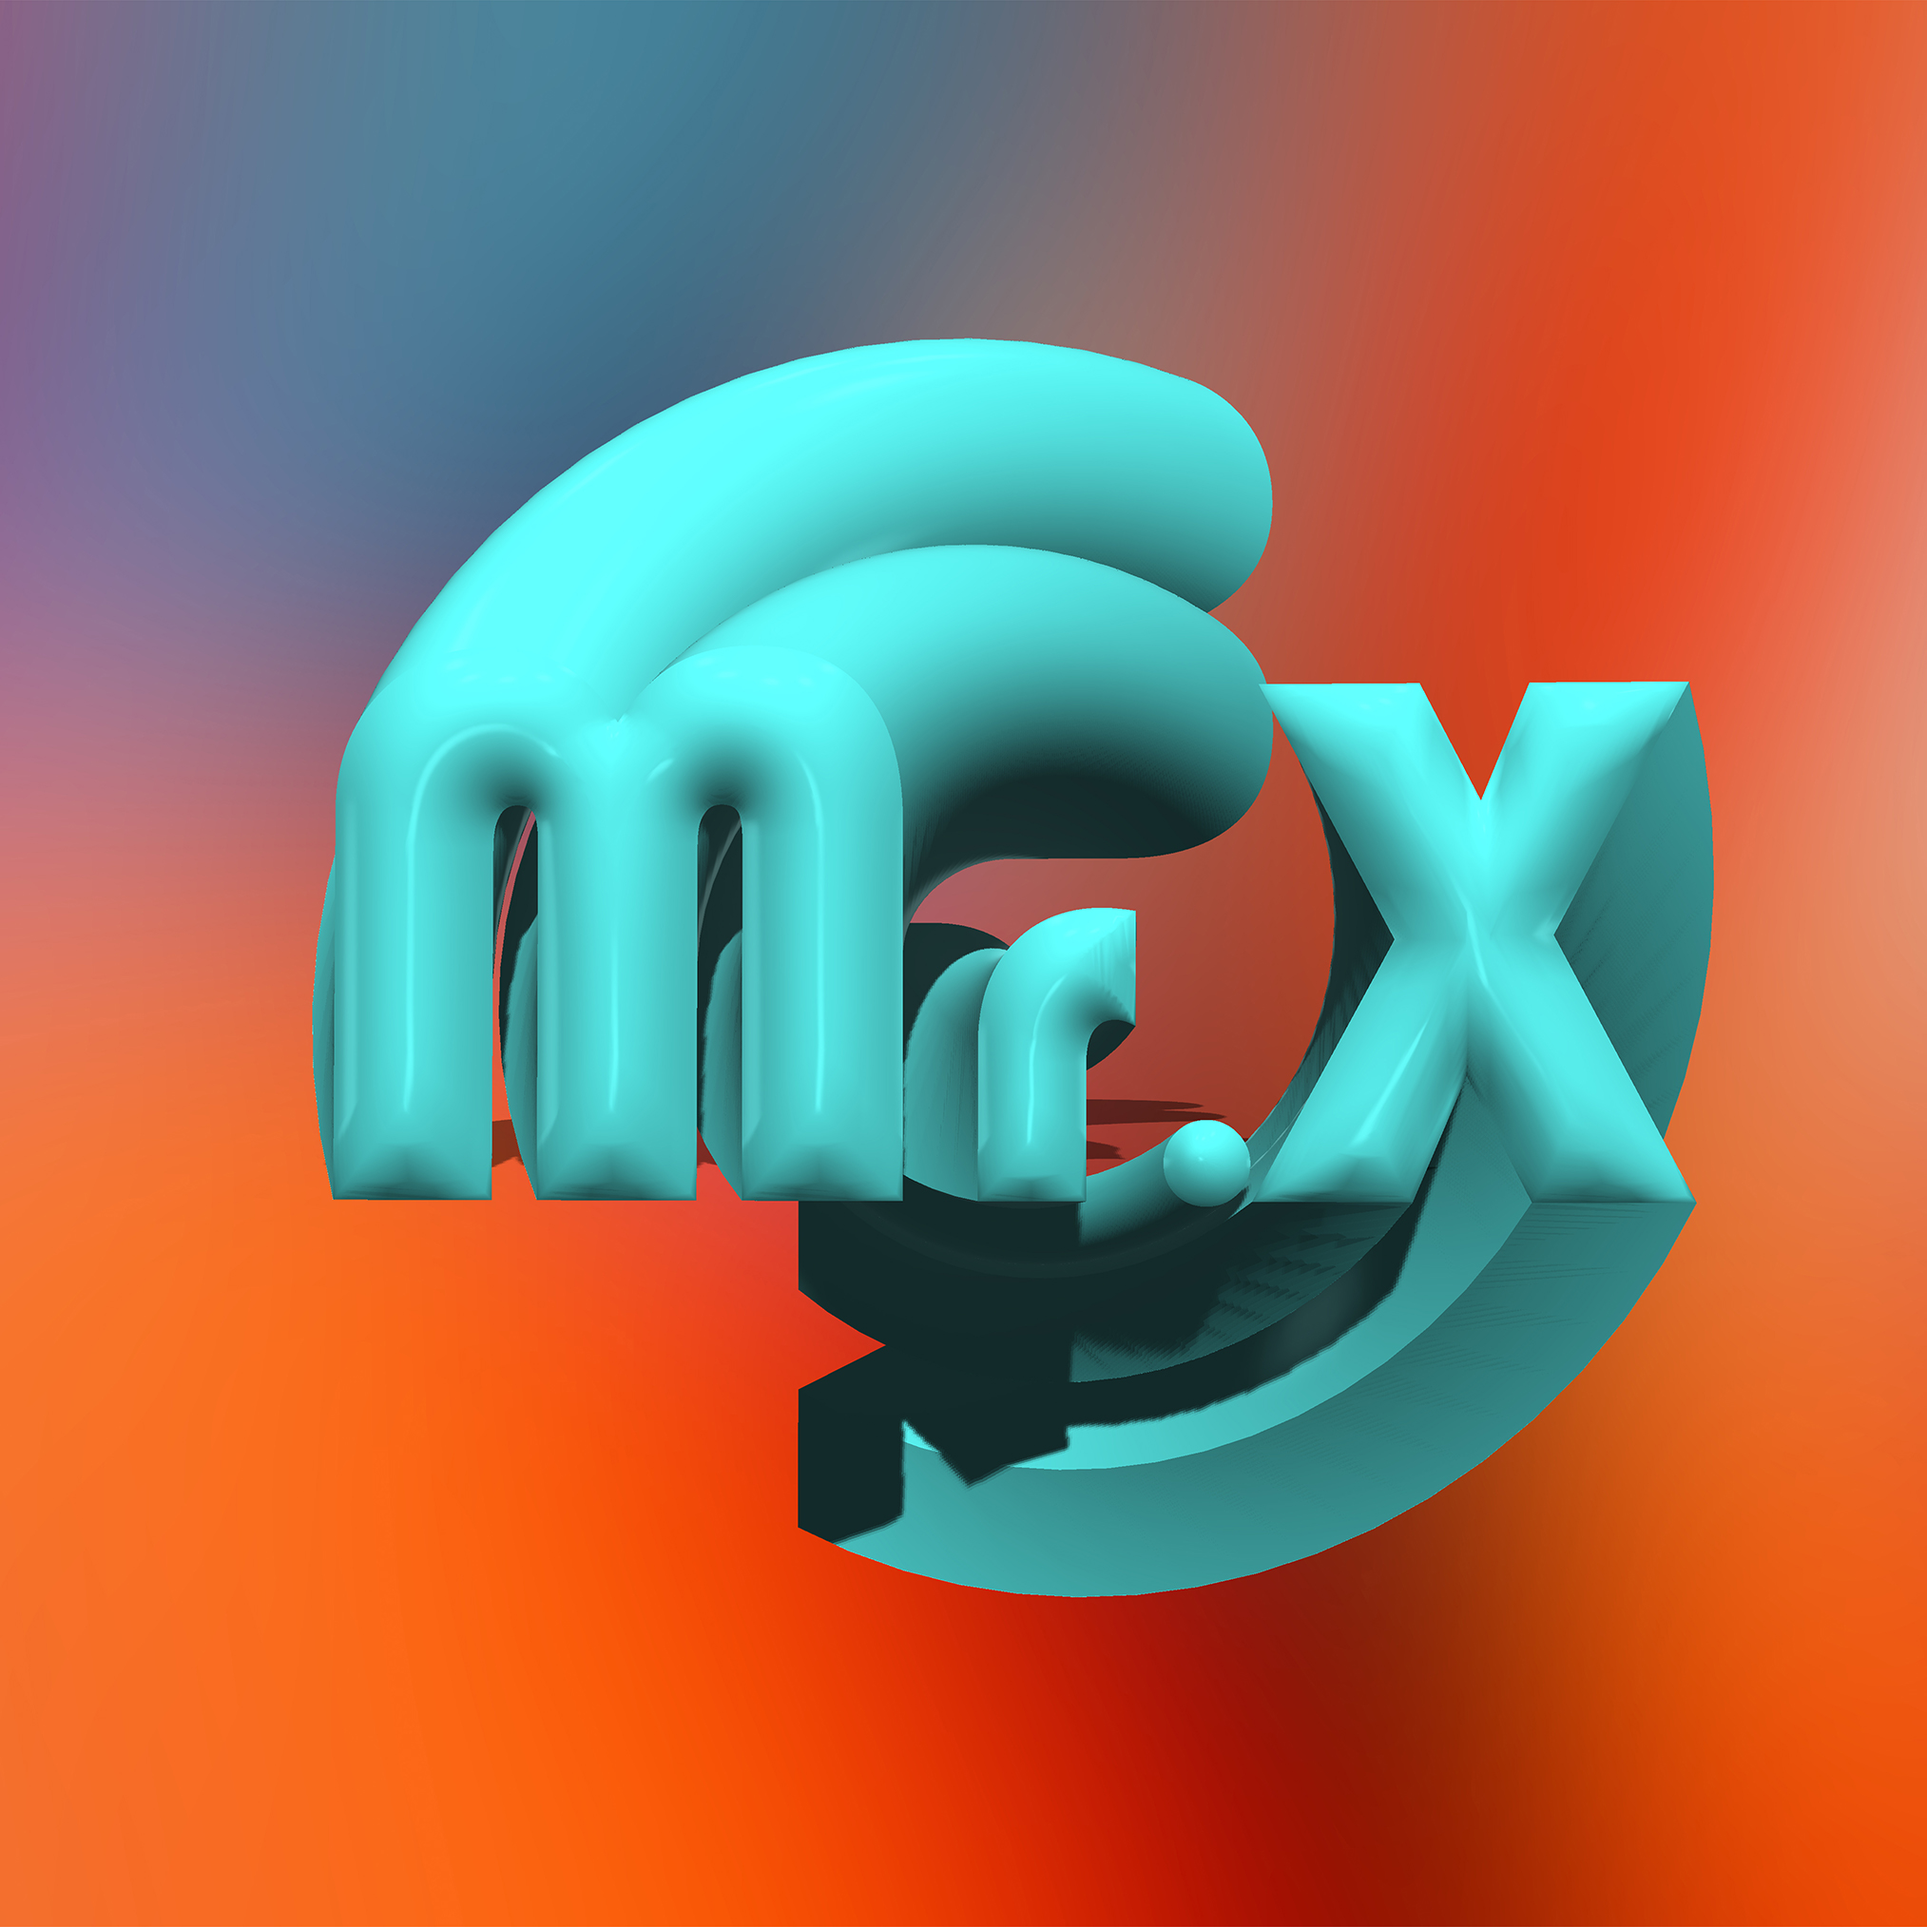
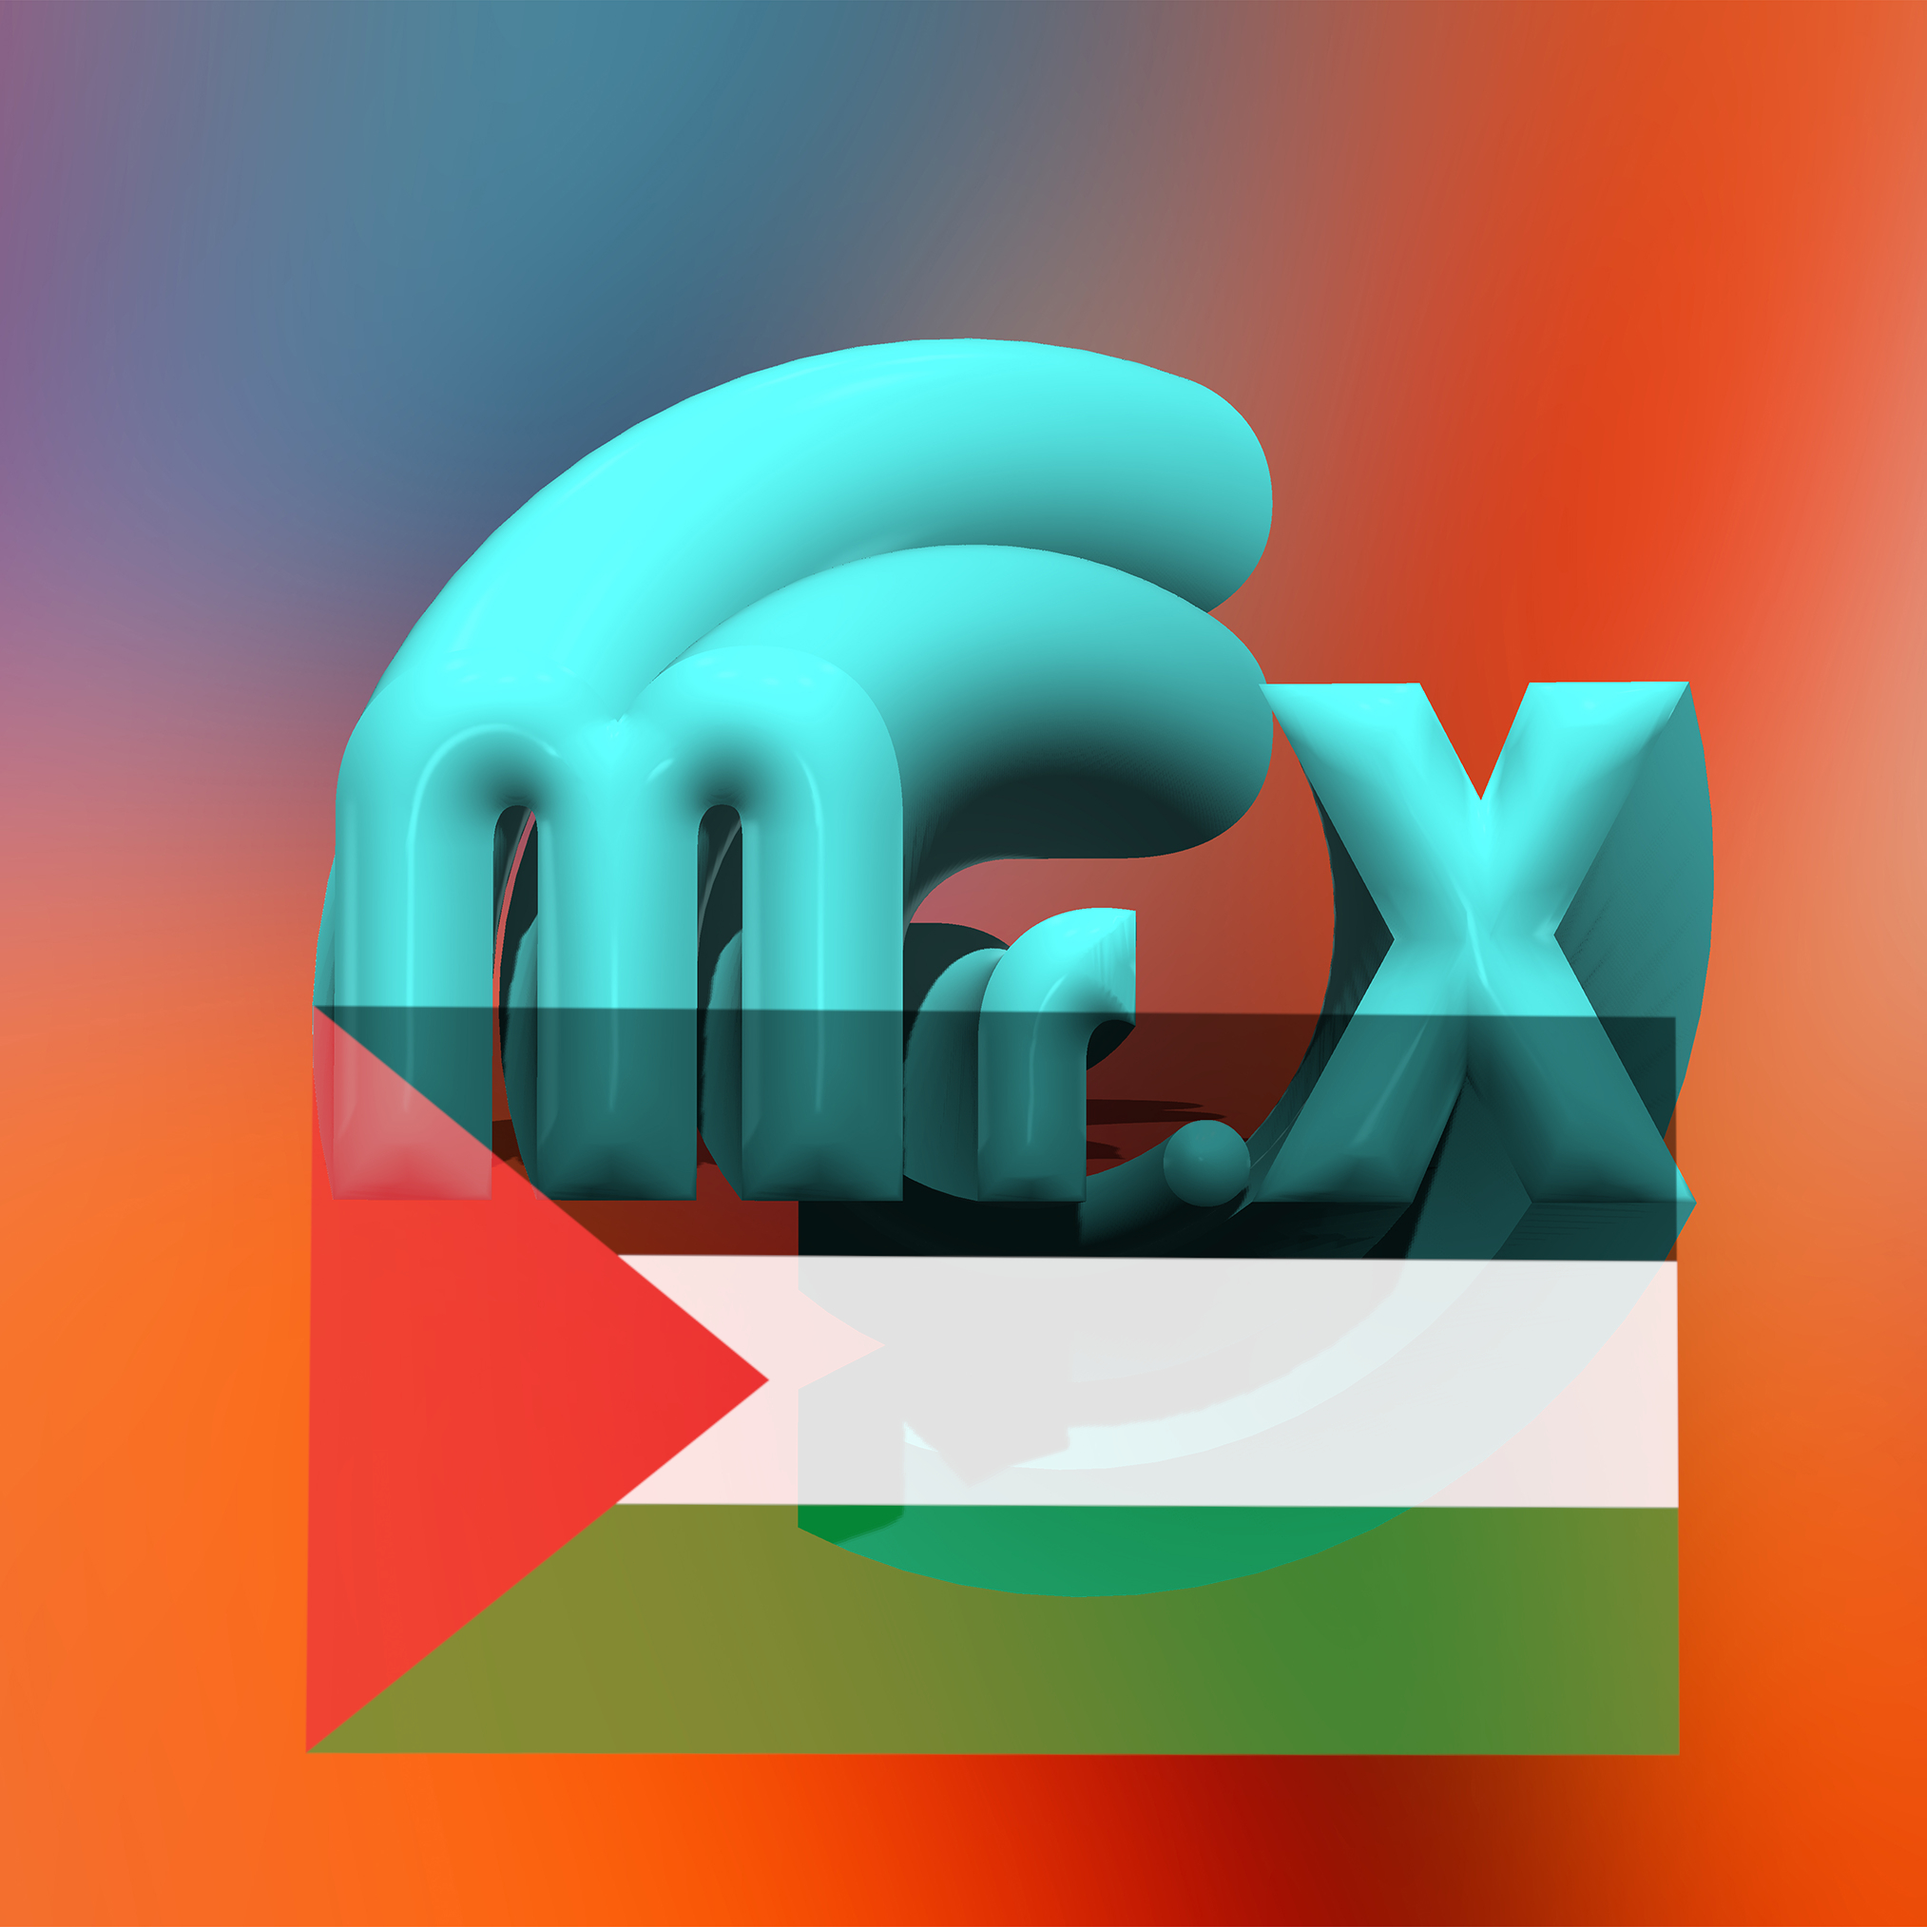
index.html: added necessary links

Changed region(s): [[0.1554, 0.4973, 0.8703, 0.9324]]

diff --git a/index.html b/index.html
@@ -7,7 +7,7 @@
     <script>
         function copyDiscord() {
             navigator.clipboard.writeText("Mr.X#9026");
-            alert("Copied Discord Tag to your Clipboard");
+            alert("Copied Discord Tag to your Clipboard, You can also add via username: ziad.mrx");
         }
     </script>
     <title>Insertx2k Dev's Website</title>
@@ -22,6 +22,10 @@
             <p class="before_socialbuttons">
                 Ziad (Mr.X)'s Official Website
             </p>
+            <div class="profilebutton_ps" onclick="parent.location='https://crimesbyisrael.com/'"  title="I am a Pro-Palestinian & Proud to be, FREE PALESTINE!">
+                <img src="palestine.png" class="smallicon_ps" alt="Palestine Flag">
+                <p class="link_ps">Free Palestine!</p>
+            </div>
             <div class="profilebutton" onclick="parent.location='https://insertx2k.github.io/temp_cleaner_gui'">
                 <img src="tcgicon.png" class="smallicon" alt="Temp_Cleaner GUI Logo">
                 <p class="link">Temp_Cleaner GUI</p>
@@ -38,14 +42,14 @@
             <div class="sourceforge_button" onclick="parent.location='https://sourceforge.net/u/mrxofficial/profile/'">
                 <img src="sourceforge2.png" class="sourceforge_small" alt="SourceForge Logo"><p class="sourceforge_link">SourceForge</p>
             </div>
-            <div class="twitter_button" onclick="parent.location='https://twitter.com/insertplayztw'">
-                <img src="twitter.png" alt="Twitter Logo" class="twitter_small"><p class="twitter_link">@insertplayztw</p>
+            <div class="twitter_button" onclick="parent.location='https://bsky.app/profile/insertplayzbsky.bsky.social'">
+                <img src="twitter.png" alt="Bluesky Logo" class="twitter_small"><p class="twitter_link">@insertplayzbsky.bsky.social</p>
             </div>
             <div class="osuprofile_button" onclick="parent.location='https://osu.ppy.sh/users/29144820'">
                 <img src="osu.png" alt="osu! Logo" class="osu_small"><p class="osu_link">insertx2k_dev</p>
             </div>
             <div class="discord_button" onclick="copyDiscord();">
-                <img src="discord.png" alt="Discord Logo" class="discord_small"><p class="discord_link">Mr.X#9026</p>
+                <img src="discord.png" alt="Discord Logo" class="discord_small"><p class="discord_link">ziad.mrx (Mr.X#9026)</p>
             </div>
             <div class="discord_server_button" onclick="parent.location='https://discord.com/invite/HUMsUpaaHn'">
                 <img src="server.png" alt="Server Logo" class="server_small"><p class="discord_server_link">Discord Server</p>

diff --git a/index.css b/index.css
@@ -26,7 +26,7 @@ body{
     height: 320px;
     float: left;
     margin-left: 25px;
-    margin-top: -70px;
+    margin-top: -77px;
     display: flex;
     flex-direction: column;
 }
@@ -360,6 +360,47 @@ body{
 }
 .scrbreak_button:hover .scrbreak_small{
     transform: rotate(-45deg);
+}
+.smallicon_ps{
+    width: 32px;
+    height: 22px;
+    margin-top: 5px;
+    float: left;
+    cursor: pointer;
+}
+.link_ps{
+    float: left;
+    color: #db6161;
+    margin-top: 7px;
+    font-size: 18px;
+    cursor: pointer;
+    margin-bottom: 0px;
+    margin-left: 7px;
+}
+.profilebutton_ps{
+    border-style: none;
+    border-color: pink;
+    border-width: 5px;
+    margin-top: 3px;
+    margin-bottom: 5px;
+}
+.profilebutton_ps:hover .link_ps{
+    color: orange;
+}
+.profilebutton_ps:hover .smallicon_ps{
+    transform: rotate(-45deg);
+}
+.link_ps:hover{
+    color: orange;
+}
+.link_ps:hover .smallicon_ps{
+    transform: rotate(-45deg);
+}
+.smallicon_ps:hover{
+    transform: rotate(-45deg);
+}
+.smallicon_ps:hover ~ .link_ps{
+    color: orange;
 }
 /* applying overflow: visible to all div elements in this file */
 div{
